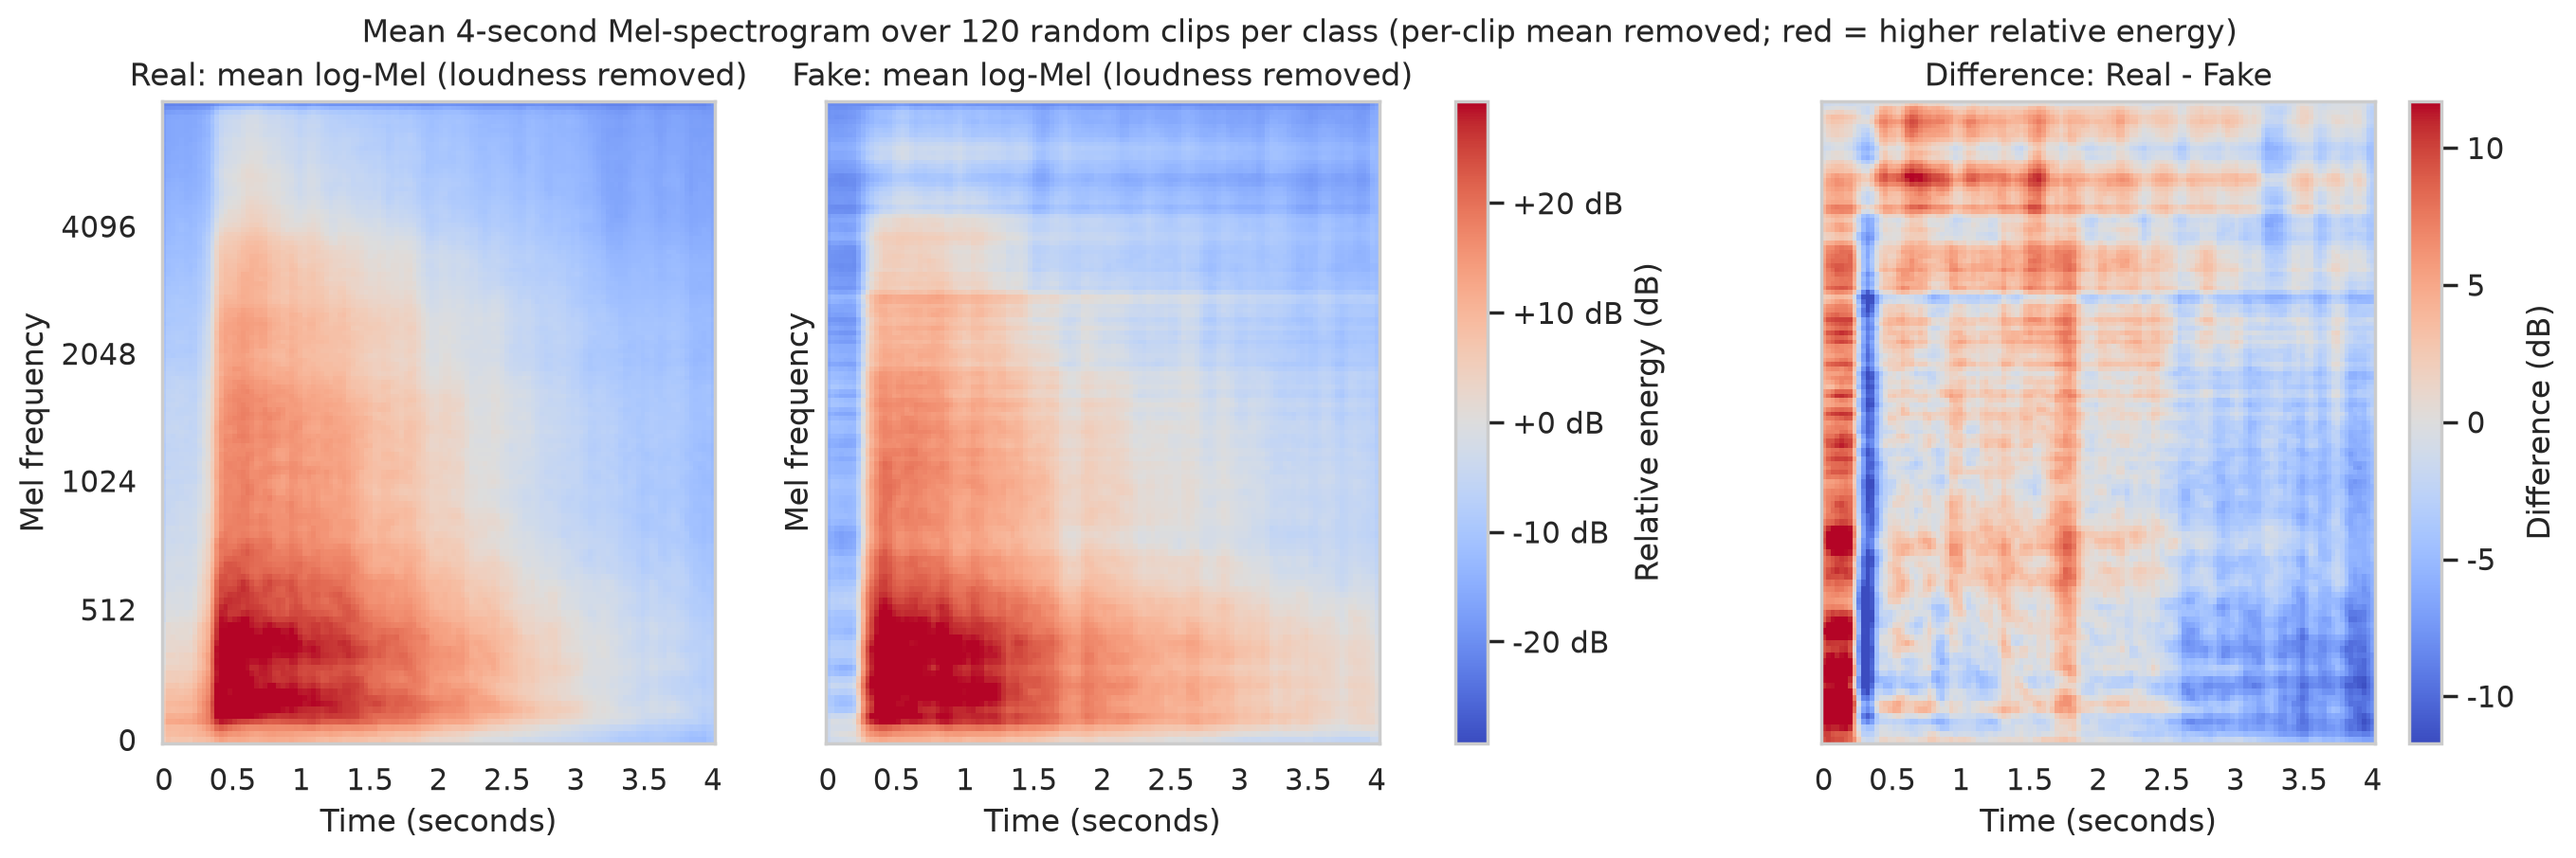
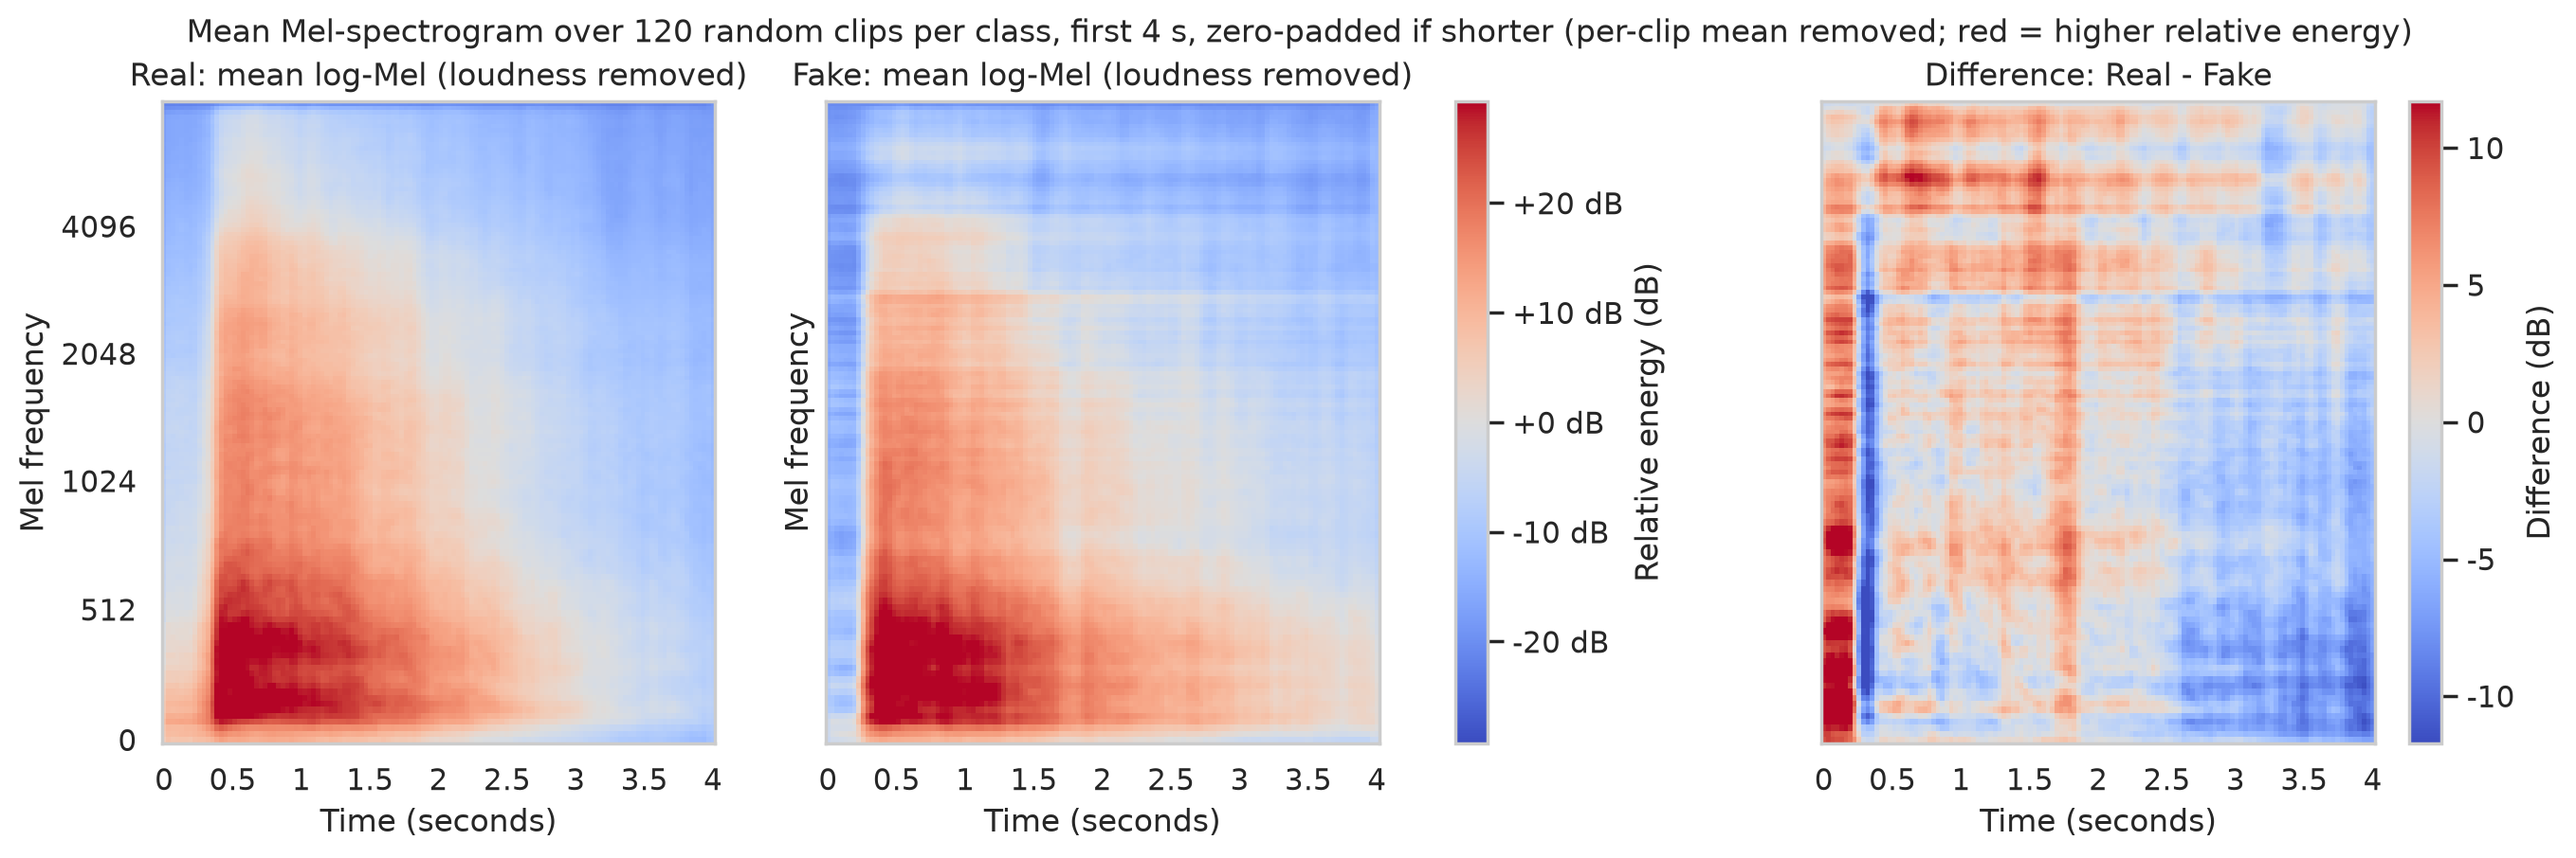
update: Update mean Mel figure descriptions and improve clarity in EDA scripts and documentation

Changed region(s): [[0.0618, 0.0, 0.9275, 0.0618]]

diff --git a/src/02_eda.py b/src/02_eda.py
@@ -593,7 +593,7 @@ def plot_mel_pair(pair: pd.DataFrame, speaker: str) -> None:
 
 
 def mean_mel_by_class(df: pd.DataFrame, n_per_class: int = 120) -> tuple[dict, np.ndarray, float]:
-    """Average 4-second log-Mel over 120 random clips per class to reduce single-clip noise."""
+    """Average log-Mel over 120 random clips per class (first 4 s, zero-padded if shorter)."""
     means = {}
     for label in ["real", "fake"]:
         paths = df[df.label == label].sample(n_per_class, random_state=42)["path"].tolist()
@@ -649,7 +649,7 @@ def plot_mean_mel(means: dict, diff: np.ndarray, limit: float) -> None:
     fig.colorbar(img, ax=axes[:2], format="%+2.0f dB", label="Relative energy (dB)")
     fig.colorbar(img2, ax=axes[2], label="Difference (dB)")
     fig.suptitle(
-        "Mean 4-second Mel-spectrogram over 120 random clips per class "
+        "Mean Mel-spectrogram over 120 random clips per class, first 4 s, zero-padded if shorter "
         "(per-clip mean removed; red = higher relative energy)",
         fontsize=12,
     )
@@ -718,8 +718,9 @@ def main() -> None:
     plot_mean_mel(means, diff, limit)
 
     mel_note = (
-        "Mean Mel figure: 120 random 4-second clips per class; each clip's mean energy is "
-        "subtracted before averaging. Red in the difference map means higher relative energy for real speech."
+        "Mean Mel figure: 120 random clips per class, each cut to its first 4 seconds or zero-padded at the end "
+        "if shorter; each clip's mean energy is subtracted before averaging. Red in the difference map means "
+        "higher relative energy for real speech. Real clips are shorter, so later time frames partly reflect padding."
     )
     save_summary_text(df, summary, tests, spk_tests, shortcut, spk_auc, spk, pair, mel_note)
     print(f"\nFigures saved to {FIG_DIR}")

diff --git a/progress_EN.md b/progress_EN.md
@@ -346,7 +346,9 @@ directly.
 | Invalid values | no NaN, no Inf |
 | Metadata rows | 31,779 (no read errors) |
 
-- Median RMS before normalization: Real -25.9 dBFS, Fake -28.5 dBFS.
+- Median RMS before normalization: Real -25.9 dBFS, Fake -28.5 dBFS. These are
+  measured on the 4-second cropped/padded clip, so they differ slightly from the
+  full-clip values in Step 2 (-26.1 / -28.5 dBFS).
 - Median RMS after normalization: -23.0 dBFS for both classes.
 - Loudness-only shortcut AUC: 0.649 before normalization, 0.505 after.
 - 61.0% of clips are shorter than 4 seconds and require wrap-padding (Real 67.8%,
